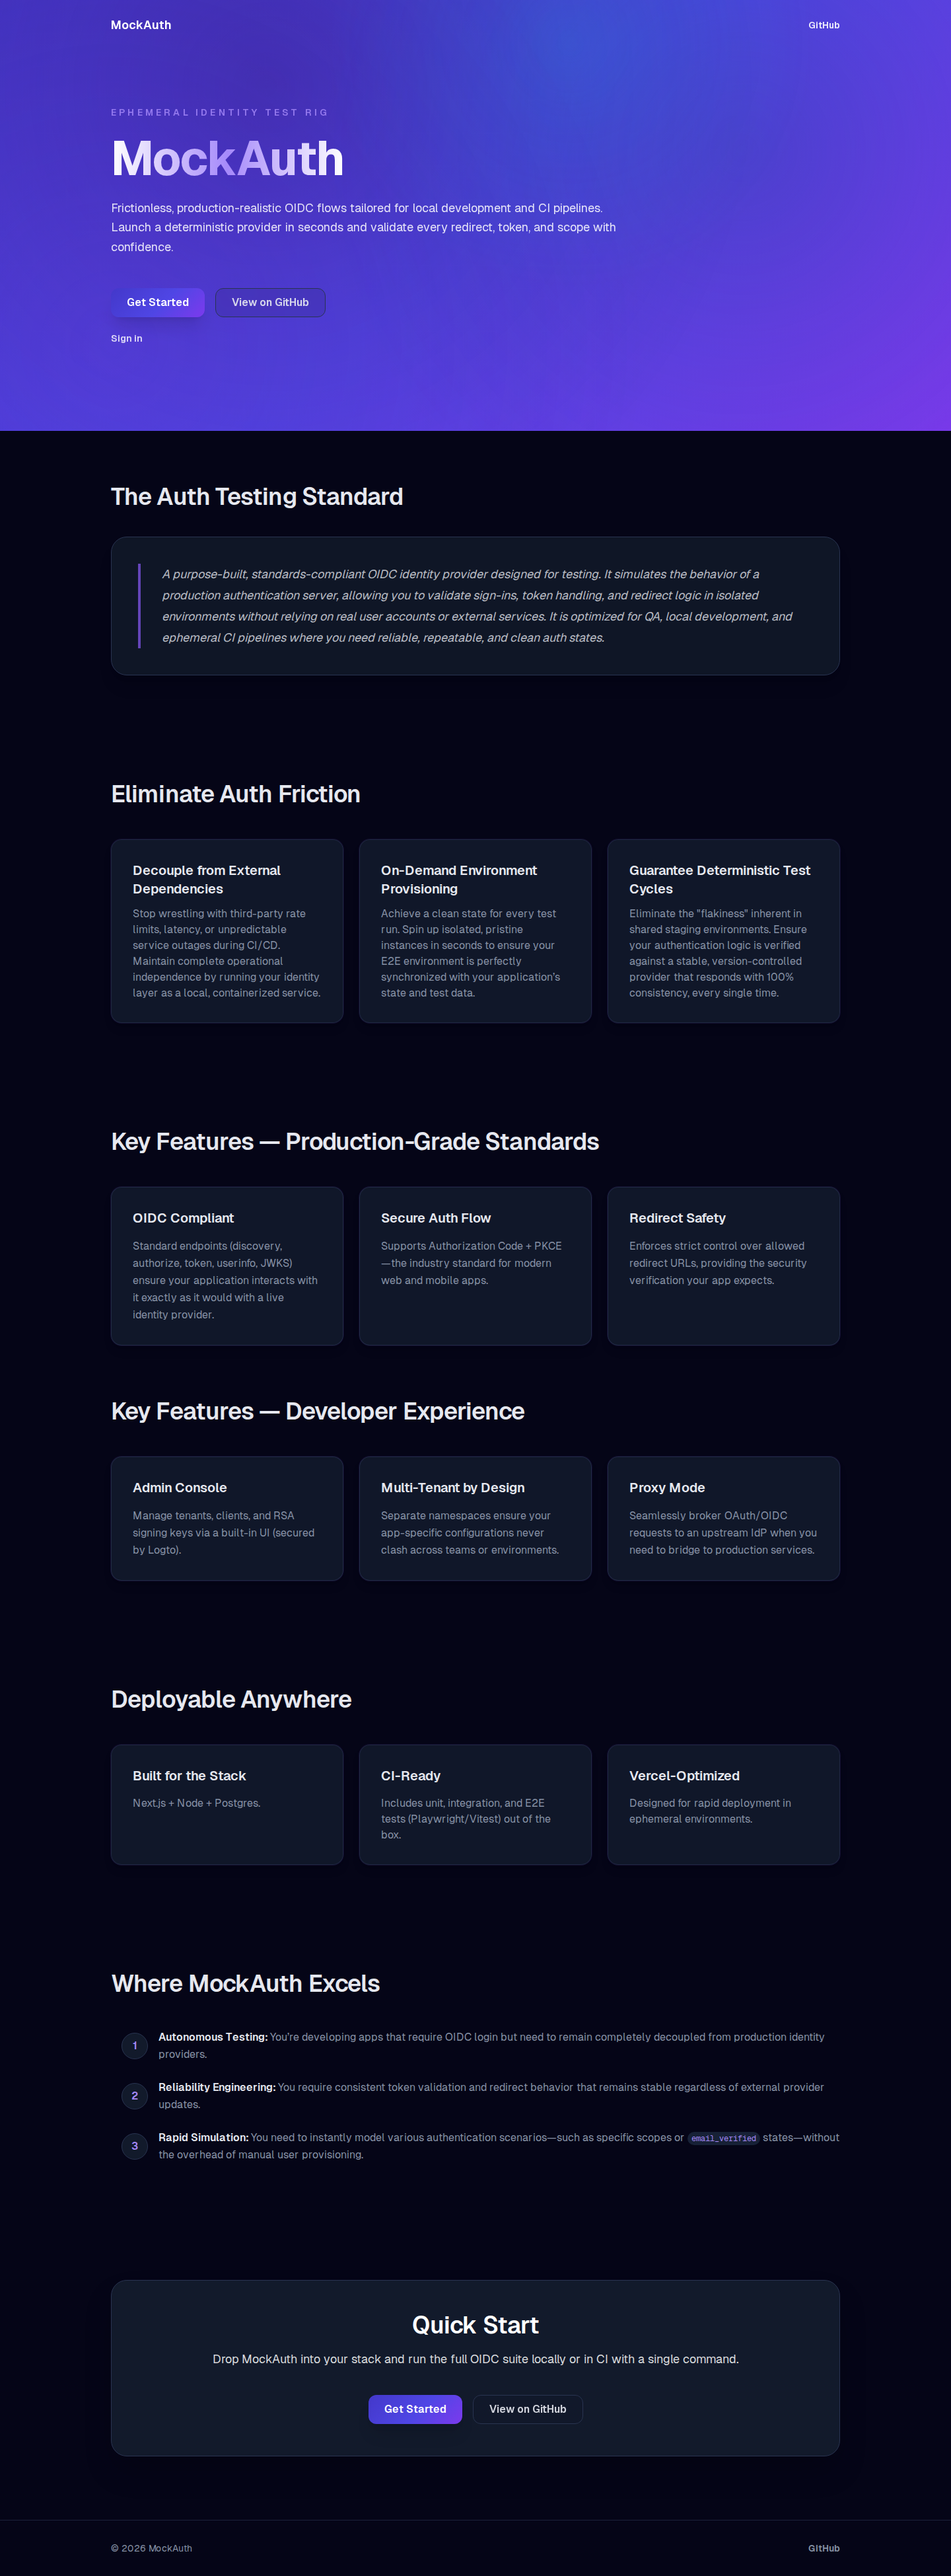
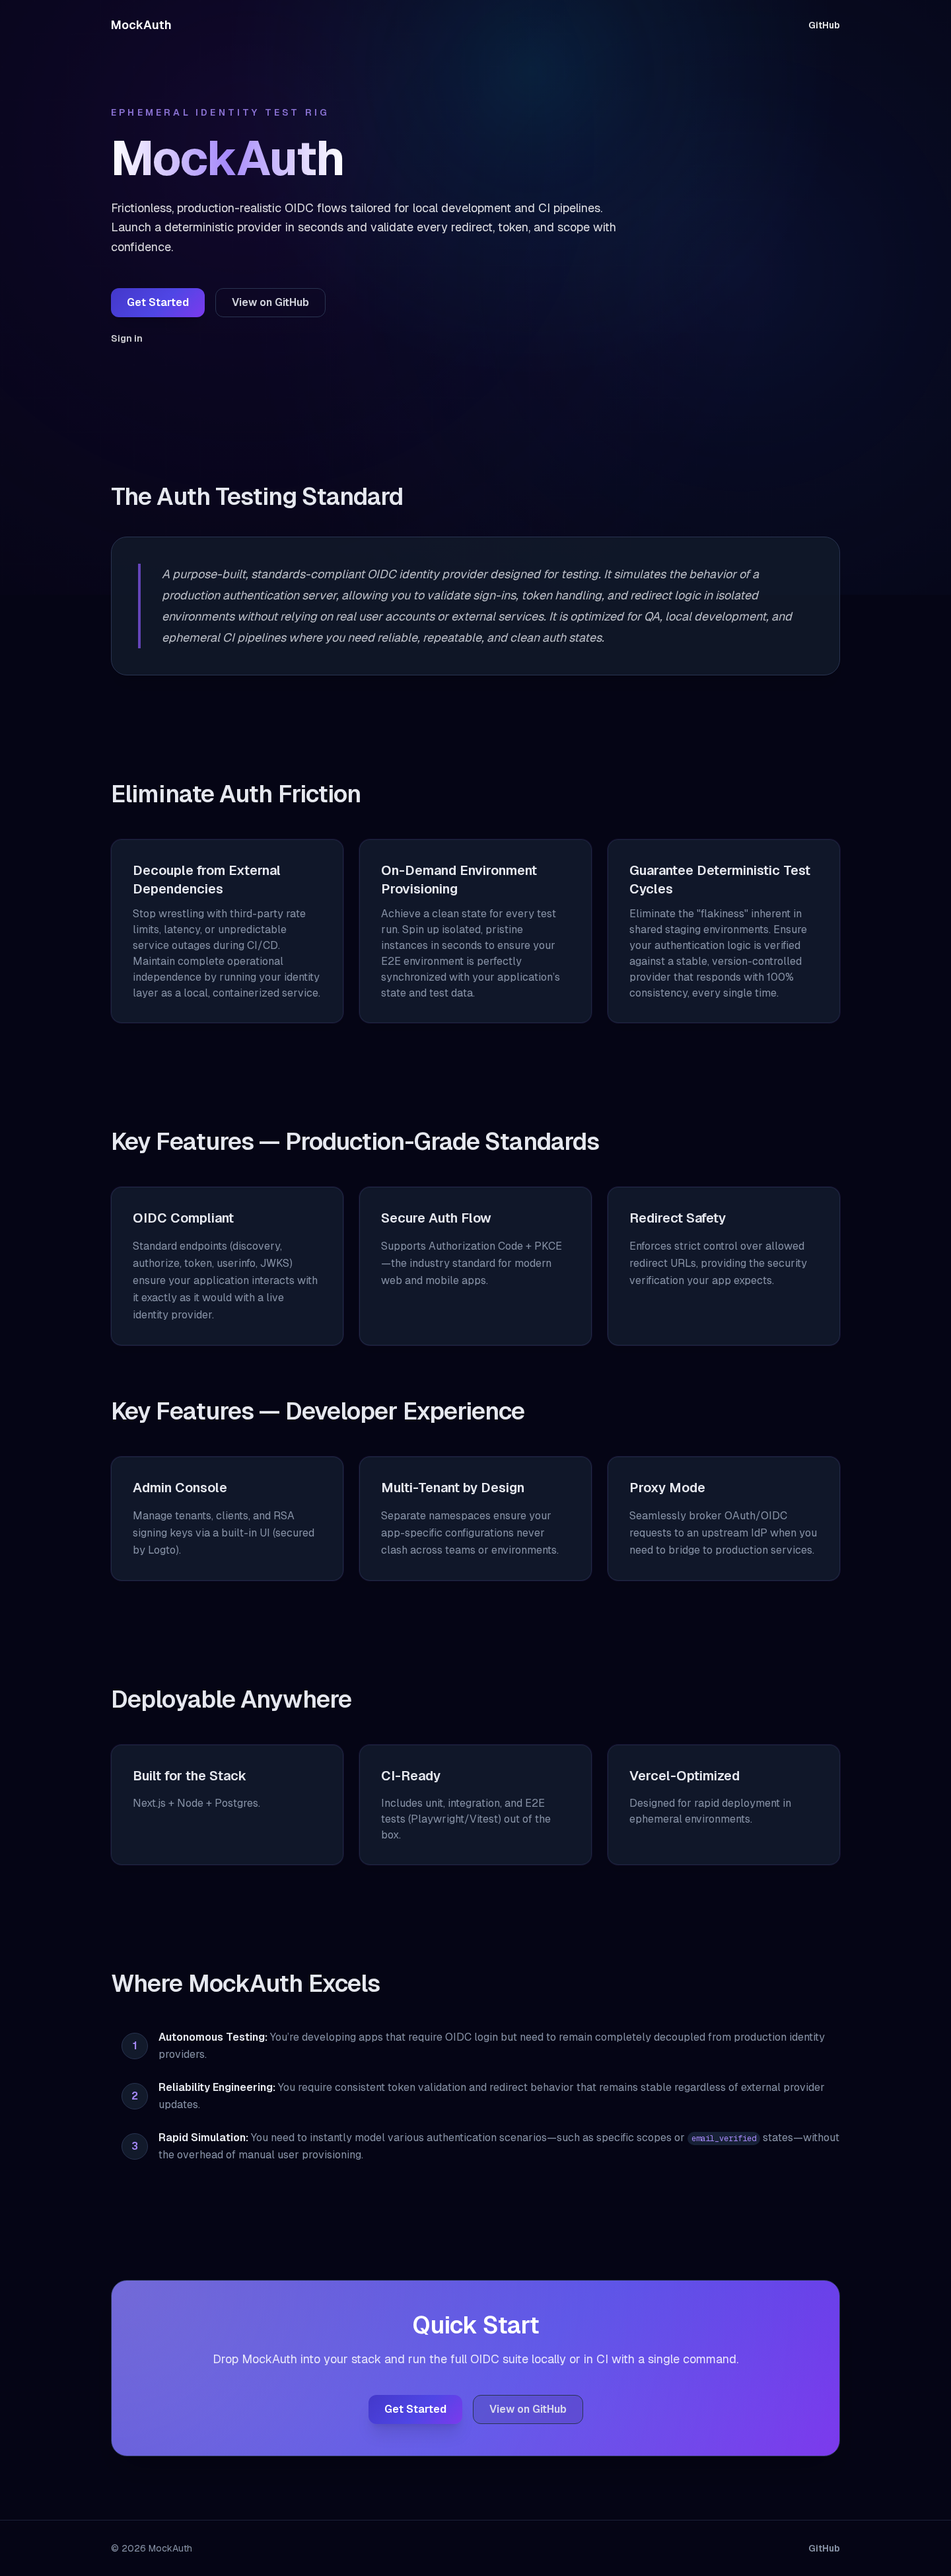
feat(landing): apply global glow backdrop

diff --git a/src/app/globals.css b/src/app/globals.css
@@ -128,7 +128,7 @@
     --border-strong: 226 32% 33%;
 
     --bg-base: #050517;
-    --background: 237 39% 7%;
+    --background: 240 64% 5%;
     --foreground: var(--text-primary);
     --card: var(--surface-2);
     --card-foreground: var(--text-primary);
@@ -145,75 +145,69 @@
 
     --glow-1-color: #2e1065;
     --glow-1-color-rgb: 46 16 101;
-    --glow-1-alpha: 0.36;
-    --glow-1-x: 28%;
-    --glow-1-y: 20%;
-    --glow-1-r1: 22vw;
-    --glow-1-r2: 52vw;
-    --glow-1-anim-duration: 60s;
-    --glow-1-anim-translate-x: 1.5%;
-    --glow-1-anim-translate-y: 1.0%;
-    --glow-1-anim-scale: 1.03;
-    --glow-1-anim-opacity-delta: 0.03;
+    --glow-1-alpha: 0.30;
+    --glow-1-x: 26%;
+    --glow-1-y: 24%;
+    --glow-1-r1: 24vw;
+    --glow-1-r2: 56vw;
+    --glow-1-anim-duration: 80s;
+    --glow-1-anim-translate-x: 1.2%;
+    --glow-1-anim-translate-y: 0.8%;
+    --glow-1-anim-scale: 1.02;
+    --glow-1-anim-opacity-delta: 0.02;
     --glow-1-anim-delay: 0s;
 
     --glow-2-color: #1e3a8a;
     --glow-2-color-rgb: 30 58 138;
-    --glow-2-alpha: 0.28;
+    --glow-2-alpha: 0.22;
     --glow-2-x: 78%;
-    --glow-2-y: 35%;
-    --glow-2-r1: 18vw;
-    --glow-2-r2: 44vw;
-    --glow-2-anim-duration: 48s;
-    --glow-2-anim-translate-x: 1.0%;
-    --glow-2-anim-translate-y: 1.5%;
-    --glow-2-anim-scale: 1.04;
+    --glow-2-y: 46%;
+    --glow-2-r1: 20vw;
+    --glow-2-r2: 48vw;
+    --glow-2-anim-duration: 60s;
+    --glow-2-anim-translate-x: 0.8%;
+    --glow-2-anim-translate-y: 1.2%;
+    --glow-2-anim-scale: 1.03;
     --glow-2-anim-opacity-delta: 0.02;
-    --glow-2-anim-delay: 8s;
+    --glow-2-anim-delay: 6s;
 
     --glow-3-color: #00e5ff;
     --glow-3-color-rgb: 0 229 255;
-    --glow-3-alpha: 0.12;
-    --glow-3-x: 60%;
-    --glow-3-y: 10%;
-    --glow-3-r1: 10vw;
-    --glow-3-r2: 26vw;
-    --glow-3-anim-duration: 36s;
-    --glow-3-anim-translate-x: 2.0%;
-    --glow-3-anim-translate-y: 2.0%;
-    --glow-3-anim-scale: 1.06;
-    --glow-3-anim-opacity-delta: 0.03;
-    --glow-3-anim-delay: 4s;
-
-    --glow-4-color: #7c3aed;
-    --glow-4-color-rgb: 124 58 237;
-    --glow-4-alpha: 0.18;
-    --glow-4-x: 12%;
-    --glow-4-y: 80%;
-    --glow-4-r1: 24vw;
-    --glow-4-r2: 56vw;
-    --glow-4-anim-duration: 72s;
-    --glow-4-anim-translate-x: 1.0%;
-    --glow-4-anim-translate-y: 0.5%;
-    --glow-4-anim-scale: 1.02;
-    --glow-4-anim-opacity-delta: 0.02;
-    --glow-4-anim-delay: 12s;
+    --glow-3-alpha: 0.10;
+    --glow-3-x: 56%;
+    --glow-3-y: 12%;
+    --glow-3-r1: 12vw;
+    --glow-3-r2: 30vw;
+    --glow-3-anim-duration: 48s;
+    --glow-3-anim-translate-x: 1.5%;
+    --glow-3-anim-translate-y: 1.5%;
+    --glow-3-anim-scale: 1.04;
+    --glow-3-anim-opacity-delta: 0.02;
+    --glow-3-anim-delay: 10s;
   }
 
   @media (max-width: 640px) {
     .dark {
-      --glow-1-r2: 42vw;
-      --glow-2-r2: 36vw;
-      --glow-3-r2: 20vw;
-      --glow-4-r2: 46vw;
-      --glow-1-x: 35%;
+      --glow-1-x: 32%;
       --glow-1-y: 22%;
-      --glow-2-x: 70%;
-      --glow-2-y: 40%;
-      --glow-3-x: 55%;
-      --glow-3-y: 14%;
-      --glow-4-x: 16%;
-      --glow-4-y: 78%;
+      --glow-1-r1: 18vw;
+      --glow-1-r2: 44vw;
+      --glow-2-x: 72%;
+      --glow-2-y: 52%;
+      --glow-2-r1: 16vw;
+      --glow-2-r2: 38vw;
+      --glow-3-x: 54%;
+      --glow-3-y: 16%;
+      --glow-3-r1: 9vw;
+      --glow-3-r2: 22vw;
+    }
+  }
+
+  @media (min-width: 1280px) {
+    .dark {
+      --glow-1-r2: 62vw;
+      --glow-2-r2: 53vw;
+      --glow-3-r2: 33vw;
     }
   }
 
@@ -234,11 +228,6 @@
       --glow-3-anim-translate-y: 0%;
       --glow-3-anim-scale: 1;
       --glow-3-anim-opacity-delta: 0;
-      --glow-4-anim-duration: 0s;
-      --glow-4-anim-translate-x: 0%;
-      --glow-4-anim-translate-y: 0%;
-      --glow-4-anim-scale: 1;
-      --glow-4-anim-opacity-delta: 0;
     }
   }
 
@@ -258,16 +247,17 @@
     @apply rounded-md bg-surface-3 px-2 py-0.5 font-mono text-[13px] leading-[18px] text-brand-400;
   }
 
-  .hero-glow {
-    position: absolute;
+  .landing-glow {
+    position: fixed;
     inset: 0;
     pointer-events: none;
-    overflow: hidden;
-    isolation: isolate;
     z-index: 0;
+    overflow: hidden;
+    width: 100vw;
+    height: 100vh;
   }
 
-  .hero-glow__layer {
+  .landing-glow__layer {
     position: absolute;
     inset: 0;
     background-repeat: no-repeat;
@@ -278,7 +268,7 @@
     --glow-anim-translate-y: 0%;
     --glow-anim-scale: 1;
     --glow-anim-opacity-delta: 0;
-    animation-name: hero-glow-float;
+    animation-name: landing-glow-float;
     animation-timing-function: ease-in-out;
     animation-iteration-count: infinite;
     animation-direction: alternate;
@@ -293,7 +283,7 @@
     );
   }
 
-  .hero-glow__layer[data-layer="1"] {
+  .landing-glow__layer[data-layer="1"] {
     --glow-color-rgb: var(--glow-1-color-rgb);
     --glow-alpha: var(--glow-1-alpha);
     --glow-x: var(--glow-1-x);
@@ -308,7 +298,7 @@
     --glow-anim-opacity-delta: var(--glow-1-anim-opacity-delta);
   }
 
-  .hero-glow__layer[data-layer="2"] {
+  .landing-glow__layer[data-layer="2"] {
     --glow-color-rgb: var(--glow-2-color-rgb);
     --glow-alpha: var(--glow-2-alpha);
     --glow-x: var(--glow-2-x);
@@ -323,7 +313,7 @@
     --glow-anim-opacity-delta: var(--glow-2-anim-opacity-delta);
   }
 
-  .hero-glow__layer[data-layer="3"] {
+  .landing-glow__layer[data-layer="3"] {
     --glow-color-rgb: var(--glow-3-color-rgb);
     --glow-alpha: var(--glow-3-alpha);
     --glow-x: var(--glow-3-x);
@@ -338,22 +328,7 @@
     --glow-anim-opacity-delta: var(--glow-3-anim-opacity-delta);
   }
 
-  .hero-glow__layer[data-layer="4"] {
-    --glow-color-rgb: var(--glow-4-color-rgb);
-    --glow-alpha: var(--glow-4-alpha);
-    --glow-x: var(--glow-4-x);
-    --glow-y: var(--glow-4-y);
-    --glow-r1: var(--glow-4-r1);
-    --glow-r2: var(--glow-4-r2);
-    --glow-anim-duration: var(--glow-4-anim-duration);
-    --glow-anim-delay: var(--glow-4-anim-delay);
-    --glow-anim-translate-x: var(--glow-4-anim-translate-x);
-    --glow-anim-translate-y: var(--glow-4-anim-translate-y);
-    --glow-anim-scale: var(--glow-4-anim-scale);
-    --glow-anim-opacity-delta: var(--glow-4-anim-opacity-delta);
-  }
-
-  @keyframes hero-glow-float {
+  @keyframes landing-glow-float {
     0%,
     100% {
       transform: translate3d(0, 0, 0) scale(1);

diff --git a/src/app/page.tsx b/src/app/page.tsx
@@ -111,10 +111,13 @@ export default function Home() {
   const currentYear = new Date().getFullYear();
 
   return (
-    <div
-      className="flex min-h-screen flex-col text-foreground"
-      style={{ backgroundColor: "var(--bg-base)" }}
-    >
+    <>
+      <div className="landing-glow" aria-hidden>
+        <div className="landing-glow__layer" data-layer="1" />
+        <div className="landing-glow__layer" data-layer="2" />
+        <div className="landing-glow__layer" data-layer="3" />
+      </div>
+      <div className="relative z-10 flex min-h-screen flex-col text-foreground">
       <header className="absolute inset-x-0 top-0 z-20">
         <div className="mx-auto flex max-w-6xl items-center justify-between px-6 py-6">
           <Link
@@ -134,20 +137,8 @@ export default function Home() {
         </div>
       </header>
 
-      <main className="flex-1">
-        <section
-          className="relative overflow-hidden text-primary-foreground"
-          style={{
-            backgroundImage:
-              "linear-gradient(var(--gradient-hero-angle), var(--gradient-hero-start) 0%, var(--gradient-hero-mid) 50%, var(--gradient-hero-end) 100%)",
-          }}
-        >
-          <div className="hero-glow" aria-hidden>
-            <div className="hero-glow__layer" data-layer="1" />
-            <div className="hero-glow__layer" data-layer="2" />
-            <div className="hero-glow__layer" data-layer="3" />
-            <div className="hero-glow__layer" data-layer="4" />
-          </div>
+      <main className="relative z-10 flex-1">
+        <section className="relative text-primary-foreground">
           <div className="relative mx-auto max-w-6xl px-6 pb-24 pt-32 sm:pb-32 sm:pt-40">
             <div className="relative z-10 max-w-3xl">
               <p className="text-sm font-semibold uppercase tracking-[0.3em] text-brand-400/80">Ephemeral identity test rig</p>
@@ -186,7 +177,7 @@ export default function Home() {
           </div>
         </section>
 
-        <section style={{ backgroundColor: "var(--bg-base)" }}>
+        <section>
           <div className="mx-auto max-w-6xl px-6 py-20">
             <h2 className="text-3xl font-semibold tracking-tight text-foreground sm:text-4xl">The Auth Testing Standard</h2>
             <blockquote className="mt-10 rounded-3xl border border-border bg-surface-2/80 p-10 text-lg leading-8 text-muted-foreground shadow-xl">
@@ -200,7 +191,7 @@ export default function Home() {
           </div>
         </section>
 
-        <section style={{ backgroundColor: "var(--bg-base)" }}>
+        <section>
           <div className="mx-auto max-w-6xl px-6 py-20">
             <h2 className="text-3xl font-semibold tracking-tight text-foreground sm:text-4xl">Eliminate Auth Friction</h2>
             <div className="mt-12 grid grid-cols-1 gap-6 lg:grid-cols-3">
@@ -217,7 +208,7 @@ export default function Home() {
           </div>
         </section>
 
-        <section style={{ backgroundColor: "var(--bg-base)" }}>
+        <section>
           <div className="mx-auto max-w-6xl space-y-20 px-6 py-20">
             <div>
               <h2 className="text-3xl font-semibold tracking-tight text-foreground sm:text-4xl">Key Features — Production-Grade Standards</h2>
@@ -250,7 +241,7 @@ export default function Home() {
           </div>
         </section>
 
-        <section style={{ backgroundColor: "var(--bg-base)" }}>
+        <section>
           <div className="mx-auto max-w-6xl px-6 py-20">
             <h2 className="text-3xl font-semibold tracking-tight text-foreground sm:text-4xl">Deployable Anywhere</h2>
             <div className="mt-12 grid grid-cols-1 gap-6 sm:grid-cols-2 lg:grid-cols-3">
@@ -267,7 +258,7 @@ export default function Home() {
           </div>
         </section>
 
-        <section style={{ backgroundColor: "var(--bg-base)" }}>
+        <section>
           <div className="mx-auto max-w-6xl px-6 py-20">
             <h2 className="text-3xl font-semibold tracking-tight text-foreground sm:text-4xl">Where MockAuth Excels</h2>
             <ol className="mt-12 space-y-6 sm:pl-4">
@@ -285,7 +276,7 @@ export default function Home() {
           </div>
         </section>
 
-        <section id="quick-start" style={{ backgroundColor: "var(--bg-base)" }}>
+        <section id="quick-start">
           <div className="mx-auto max-w-6xl px-6 py-24">
             <div
               className="relative overflow-hidden rounded-3xl border border-border p-12 text-center shadow-2xl"
@@ -326,7 +317,7 @@ export default function Home() {
         </section>
       </main>
 
-      <footer className="border-t border-border/60" style={{ backgroundColor: "var(--bg-base)" }}>
+      <footer className="relative z-10 border-t border-border/60">
         <div className="mx-auto flex max-w-6xl flex-col items-center justify-between gap-4 px-6 py-8 text-sm text-muted-foreground sm:flex-row">
           <p>© {currentYear} MockAuth</p>
           <a
@@ -339,6 +330,7 @@ export default function Home() {
           </a>
         </div>
       </footer>
-    </div>
+      </div>
+    </>
   );
 }
